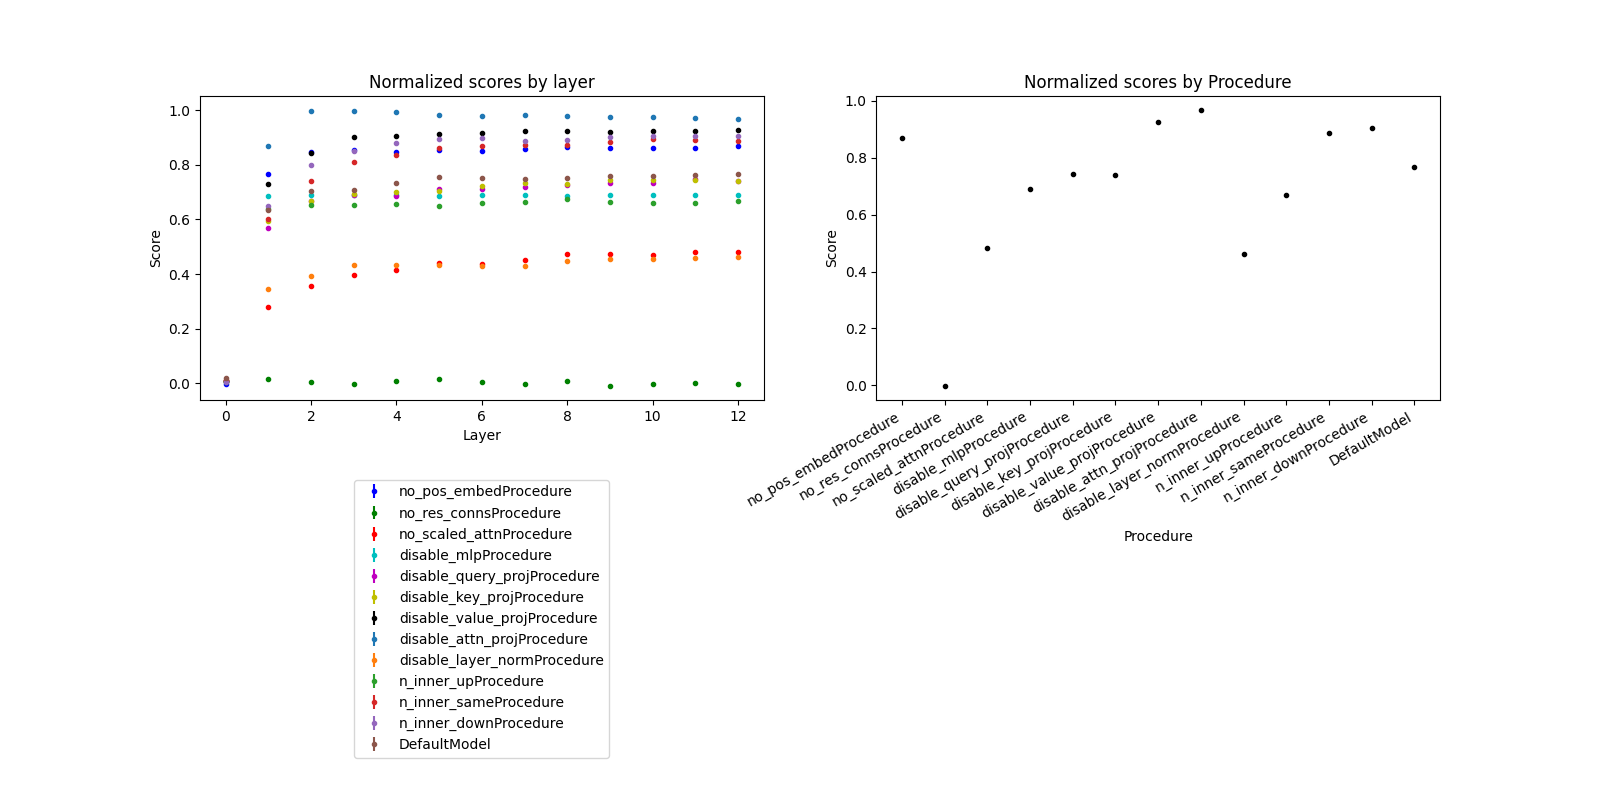
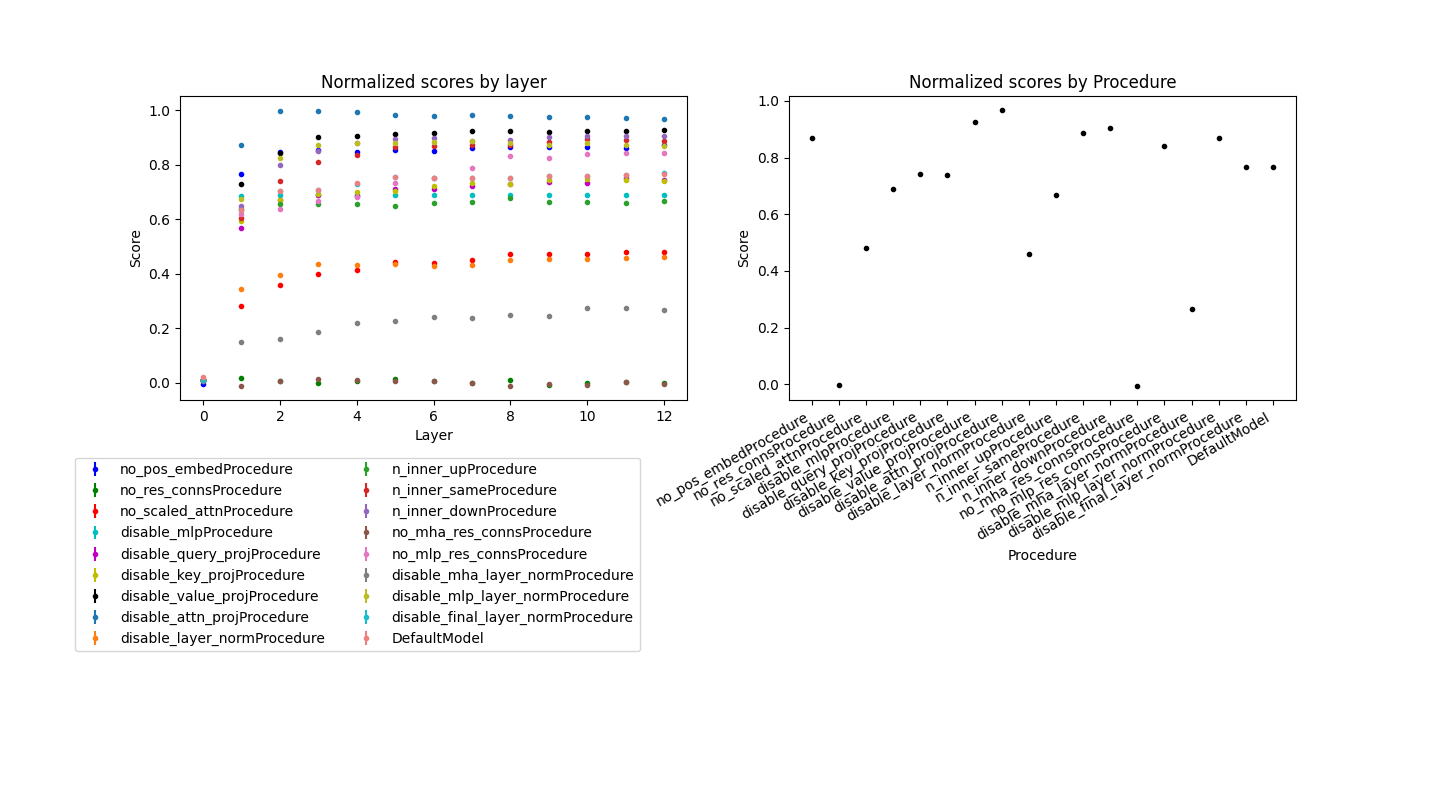
regenerate plot for lobotomy analysis

diff --git a/candbproj/analyze/gpt2_lobotomy_analysis.py b/candbproj/analyze/gpt2_lobotomy_analysis.py
@@ -31,7 +31,7 @@ def main():
     dfs = dfs_by_layer(normalized_lobotomy_scores)
     labels = [key for key in normalized_lobotomy_scores.keys()]
     layer_fill_axis(axis[0], dfs, labels)
-    axis[0].legend(loc="lower center", bbox_to_anchor=(0.5, -1.2))
+    axis[0].legend(loc="lower center", bbox_to_anchor=(0.35, -0.85), ncol=2)
 
     # In this case we only care about the last layer's scores
     final_results = {}

diff --git a/candbproj/analyze/analysis.py b/candbproj/analyze/analysis.py
@@ -140,8 +140,8 @@ def get_untrained_data():
 
 
 def generate_color():
-
-    colors = {**mcolors.BASE_COLORS, **mcolors.TABLEAU_COLORS}
+    css_colors = {k:v for k, v in mcolors.CSS4_COLORS.items() if k in {'lightcoral', 'palegreen', 'magenta'}}
+    colors = {**mcolors.BASE_COLORS, **mcolors.TABLEAU_COLORS, **css_colors}
     colors.pop("w")
 
     for r in colors:
